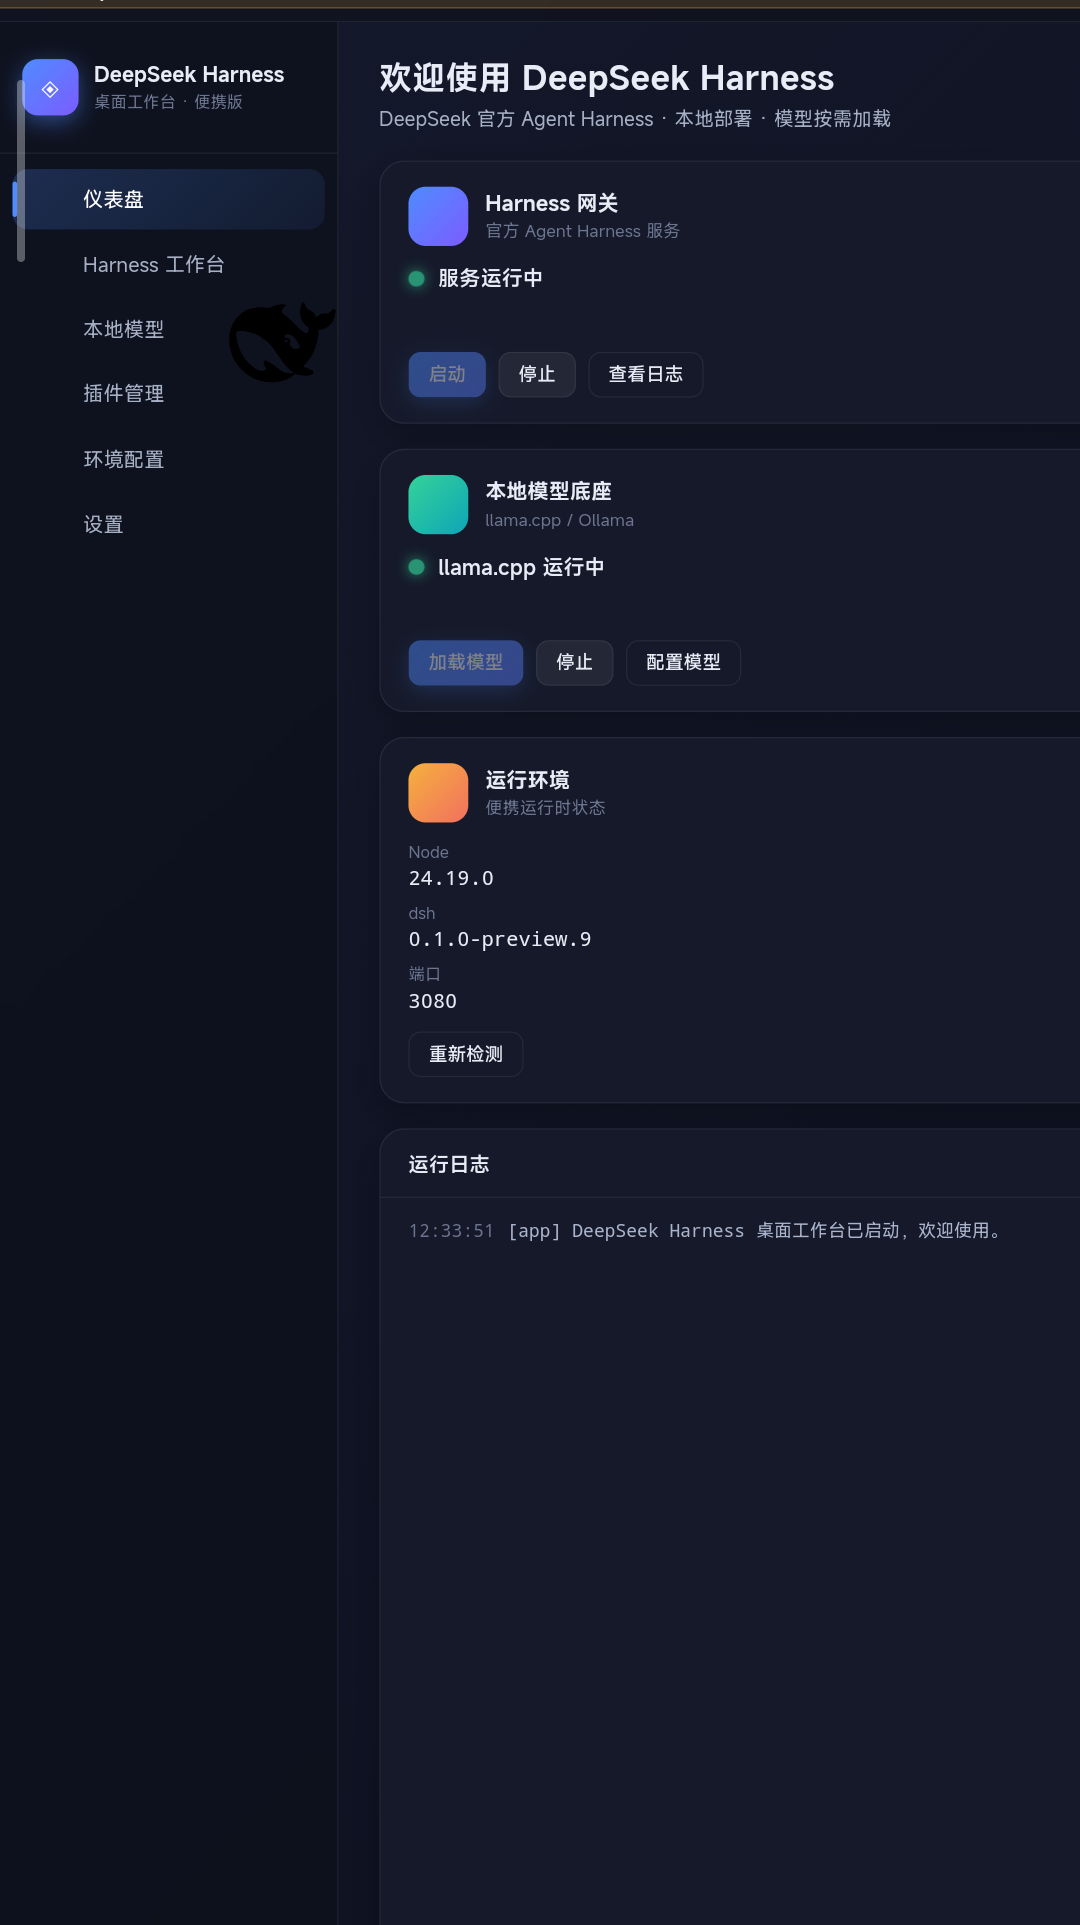
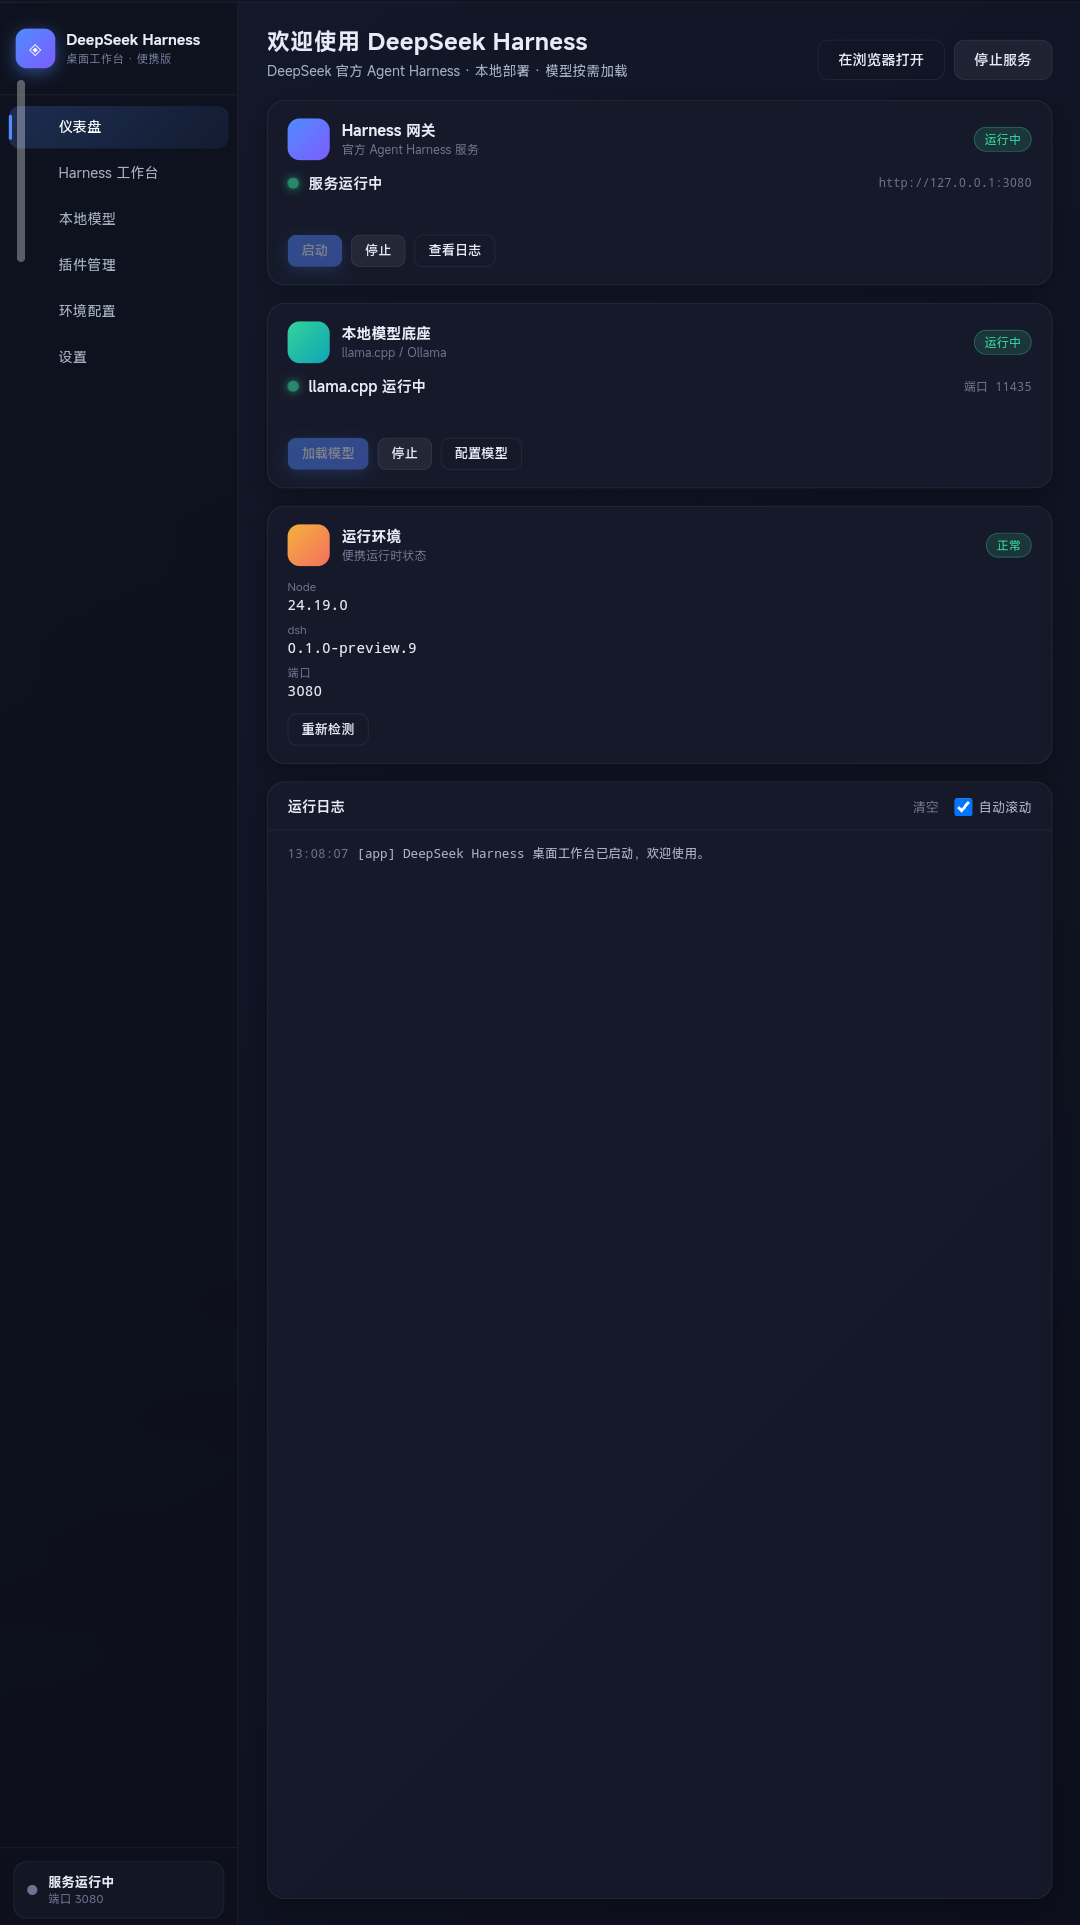
chore: 添加 MIT 许可证 + 公开前脱敏
许可证
- 新增 LICENSE（MIT，版权署名 jma28262-lgtm）
- README 增加 license 徽章

脱敏（为公开仓库做准备；仓库历史里本就不含密钥）
- 模型文件名 Dolphin3.0-Llama3.1-8B-abliterated.* → qwen2.5-7b-instruct-q4_k_m.*
  （出现在 OPTIMIZATION-REVIEW.md 与前端演示数据里；原文件名会暴露使用者的模型选择）
- 部署目录 G:\deepseek-harness → <部署目录>
- launcher/monitor.ps1 与 launcher/fix_update.js 里写死的绝对路径改为参数传入
  （monitor.ps1 的用途是观察 exe 是否异常退出，参数化后反而更通用）
- NativeBridge.cs 注释里用作示例的真实密钥前缀 → 占位值
- 两张界面截图重新生成（原图含模型文件名与密钥掩码）

保留未改的（有意为之）
- launcher/src/Services.cs 里的路径探测候选（D:\llama.cpp、C:\Program Files\Ollama 等）
  —— 那是功能性的自动探测启发式，改掉会破坏模型服务发现
- C:\Windows\Microsoft.NET\Framework64\...\csc.exe 等系统路径
- 演示数据与文档里的 127.0.0.1 / RFC1918 示例地址

diff --git a/launcher/web/js/bridge.js b/launcher/web/js/bridge.js
@@ -36,7 +36,7 @@
         Steps: [
           { Name: "换机检测", Status: "fixed", Detail: "检测到这是另一台电脑（机器指纹变化），已自动触发完整自检与配置修复。" },
           { Name: "运行时", Status: "ok", Detail: "便携 Node 与 dsh 内核均已就绪。" },
-          { Name: "路径自愈：DSH_LLAMA_MODEL", Status: "fixed", Detail: "原路径失效（D:\\Ollama\\Models\\gguf\\Dolphin3.0-…gguf）→ 已重定位到 E:\\Ollama\\Models\\gguf\\Dolphin3.0-…gguf" },
+          { Name: "路径自愈：DSH_LLAMA_MODEL", Status: "fixed", Detail: "原路径失效（D:\\Ollama\\Models\\gguf\\qwen2.5-7b-…gguf）→ 已重定位到 E:\\Ollama\\Models\\gguf\\qwen2.5-7b-…gguf" },
           { Name: "路径自愈：DSH_LLAMA_DIR", Status: "fixed", Detail: "原路径失效（G:\\Ollama）→ 已重定位到 E:\\Ollama" },
           { Name: "端口", Status: "ok", Detail: "端口 3080 可用。" },
           { Name: "凭据", Status: "warn", Detail: "检测到明文密钥（config\\user.env）。需要输入一次访问口令才能解锁/迁移加密凭据库。" },
@@ -44,7 +44,7 @@
         ]
       }
     };
-    var demoSecret = { mode: "Passphrase", unlocked: false, hasKey: true, hint: "sk-e8****f776", error: "", notes: [] };
+    var demoSecret = { mode: "Passphrase", unlocked: false, hasKey: true, hint: "sk-de****m000", error: "", notes: [] };
     demoEnv.secret = demoSecret;   // var 提升：demoEnv 定义在前，必须在此处补赋值
     var demoConfig = {
       DSH_PORT: "3080", DSH_AUTO_START_MODEL: "0", DSH_MODEL_BACKEND: "llama.cpp",
@@ -67,7 +67,7 @@
           { Name: "@deepseek-ai/dsh-tool-skill", Version: "0.1.0", Dir: "…" }
         ];
         case "scanGGUF": return [
-          { Path: "D:\\Ollama\\Models\\gguf\\Dolphin3.0-Llama3.1-8B.Q4_K_M.gguf", Name: "Dolphin3.0-Llama3.1-8B.Q4_K_M.gguf", SizeBytes: 4920000000 }
+          { Path: "D:\\Ollama\\Models\\gguf\\qwen2.5-7b-instruct-q4_k_m.gguf", Name: "qwen2.5-7b-instruct-q4_k_m.gguf", SizeBytes: 4920000000 }
         ];
         case "setConfig": return "（演示模式）已保存";
         case "envSetup": return demoEnv.lastSetup;

diff --git a/launcher/fix_update.js b/launcher/fix_update.js
@@ -1,18 +1,23 @@
+// 一次性补丁脚本（历史留存）：从 update.ps1 里去掉了 --legacy-peer-deps。
+// 该改动当年已经手工应用；保留此文件是为了让提交历史可追溯，正常情况下无需再运行。
+//
+// 用法: node fix_update.js <update.ps1 的路径>
+// 历史版本把目标路径写死为某个具体盘符，属于个人环境信息，已改为参数传入。
 const fs = require('fs');
-const path = 'G:\\deepseek-harness\\update.ps1';
+const path = process.argv[2];
+if (!path) {
+  console.error('用法: node fix_update.js <update.ps1 的路径>');
+  process.exit(1);
+}
 let c = fs.readFileSync(path, 'utf8');
 
-// Remove --legacy-peer-deps from main install
 c = c.replace(
   "'install', '@deepseek-ai/dsh@latest', '--legacy-peer-deps', '--no-fund', '--no-audit', '--foreground-scripts'",
   "'install', '@deepseek-ai/dsh@latest', '--no-fund', '--no-audit', '--foreground-scripts'"
 );
-
-// Remove --legacy-peer-deps from peer deps install
 c = c.replace(
   "@('--legacy-peer-deps', '--no-fund', '--no-audit', '--foreground-scripts')",
   "@('--no-fund', '--no-audit', '--foreground-scripts')"
 );
-
 fs.writeFileSync(path, c, 'utf8');
 console.log('update.ps1: removed --legacy-peer-deps');

diff --git a/launcher/web/index.html b/launcher/web/index.html
@@ -4,7 +4,7 @@
 <meta charset="utf-8">
 <meta http-equiv="X-UA-Compatible" content="IE=edge">
 <title>DeepSeek Harness 桌面工作台</title>
-<link rel="stylesheet" href="css/style.css?v=20260917a"></head>
+<link rel="stylesheet" href="css/style.css?v=20260917b"></head>
 <body>
 <div id="app-shell">
 
@@ -476,7 +476,7 @@
 
 </div><!-- /app-shell -->
 
-<script src="js/bridge.js?v=20260917a"></script>
-<script src="js/app.js?v=20260917a"></script>
+<script src="js/bridge.js?v=20260917b"></script>
+<script src="js/app.js?v=20260917b"></script>
 </body>
 </html>

diff --git a/launcher/src/NativeBridge.cs b/launcher/src/NativeBridge.cs
@@ -467,7 +467,7 @@ namespace DeepSeekHarnessLauncher
             {
                 d[k] = cfg.Get(k, "");
             }
-            // 密钥绝不回传前端：只回"是否已配置"与掩码提示（例如 sk-e8***f776）
+            // 密钥绝不回传前端：只回"是否已配置"与掩码提示（例如 sk-xxxx****yyyy）
             string apiKey;
             bool hasKey = SecretStore.TryGet("DEEPSEEK_API_KEY", out apiKey) && !string.IsNullOrEmpty(apiKey);
             d["hasApiKey"] = hasKey;

diff --git a/OPTIMIZATION-REVIEW.md b/OPTIMIZATION-REVIEW.md
@@ -145,7 +145,7 @@ if (inRefs && t) { ... }                                                   // re
 -      api: openai-completions
 -      baseURL: "http://127.0.0.1:11435/v1"
 -      models:
--        - id: "D:\\Ollama\\Models\\gguf\\Dolphin3.0-Llama3.1-8B-abliterated.Q4_K_M.gguf"
+-        - id: "D:\\Ollama\\Models\\gguf\\qwen2.5-7b-instruct-q4_k_m.gguf"
 +    deepseek:
 +      apiKeyEnv: DEEPSEEK_API_KEY
 ```
@@ -205,7 +205,7 @@ psi.Arguments = "\"" + Paths.DshJsBin + "\" web --port " + Port + " --no-open";
 ```
 Error: failed to import loader entry attachment-local (@deepseek-ai/dsh-attachment-local):
   Cannot find package '@deepseek-ai/dsh-attachment'
-  imported from G:\deepseek-harness\tools\global\node_modules\@deepseek-ai\dsh-attachment-local\lib\index.js
+  imported from <部署目录>\tools\global\node_modules\@deepseek-ai\dsh-attachment-local\lib\index.js
 ```
 
 缺失的包（去重后 6 个）：`dsh-attachment`、`dsh-jobs`、`dsh-session-persistence`、
@@ -219,7 +219,7 @@ Error: failed to import loader entry attachment-local (@deepseek-ai/dsh-attachme
 3. `tools/global` 里那份 DSH 是"扁平安装"，缺 peer 依赖
 4. 装进来的 `dsh-mcp-client` 在启动时被加载 → import 失败 → **整个 dsh 起不来**
 
-**注意 `fix_update.js`**：这个 18 行的脚本专门去 `G:\deepseek-harness\update.ps1` 里
+**注意 `fix_update.js`**：这个 18 行的脚本专门去 `<部署目录>\update.ps1` 里
 删掉 `--legacy-peer-deps` —— 说明作者已经踩过这个坑并修了 `update.ps1`，
 但 **`Services.cs:959` 的安装路径漏了**。同一份仓库里两种 npm 调用策略并存。
 

diff --git a/README.md b/README.md
@@ -8,6 +8,7 @@
 ![lang](https://img.shields.io/badge/C%23-5.0-239120)
 ![ui](https://img.shields.io/badge/UI-WinForms%20%2B%20WebView2-2f6f4e)
 ![deps](https://img.shields.io/badge/runtime%20deps-none-brightgreen)
+![license](https://img.shields.io/badge/license-MIT-green)
 
 ---
 
